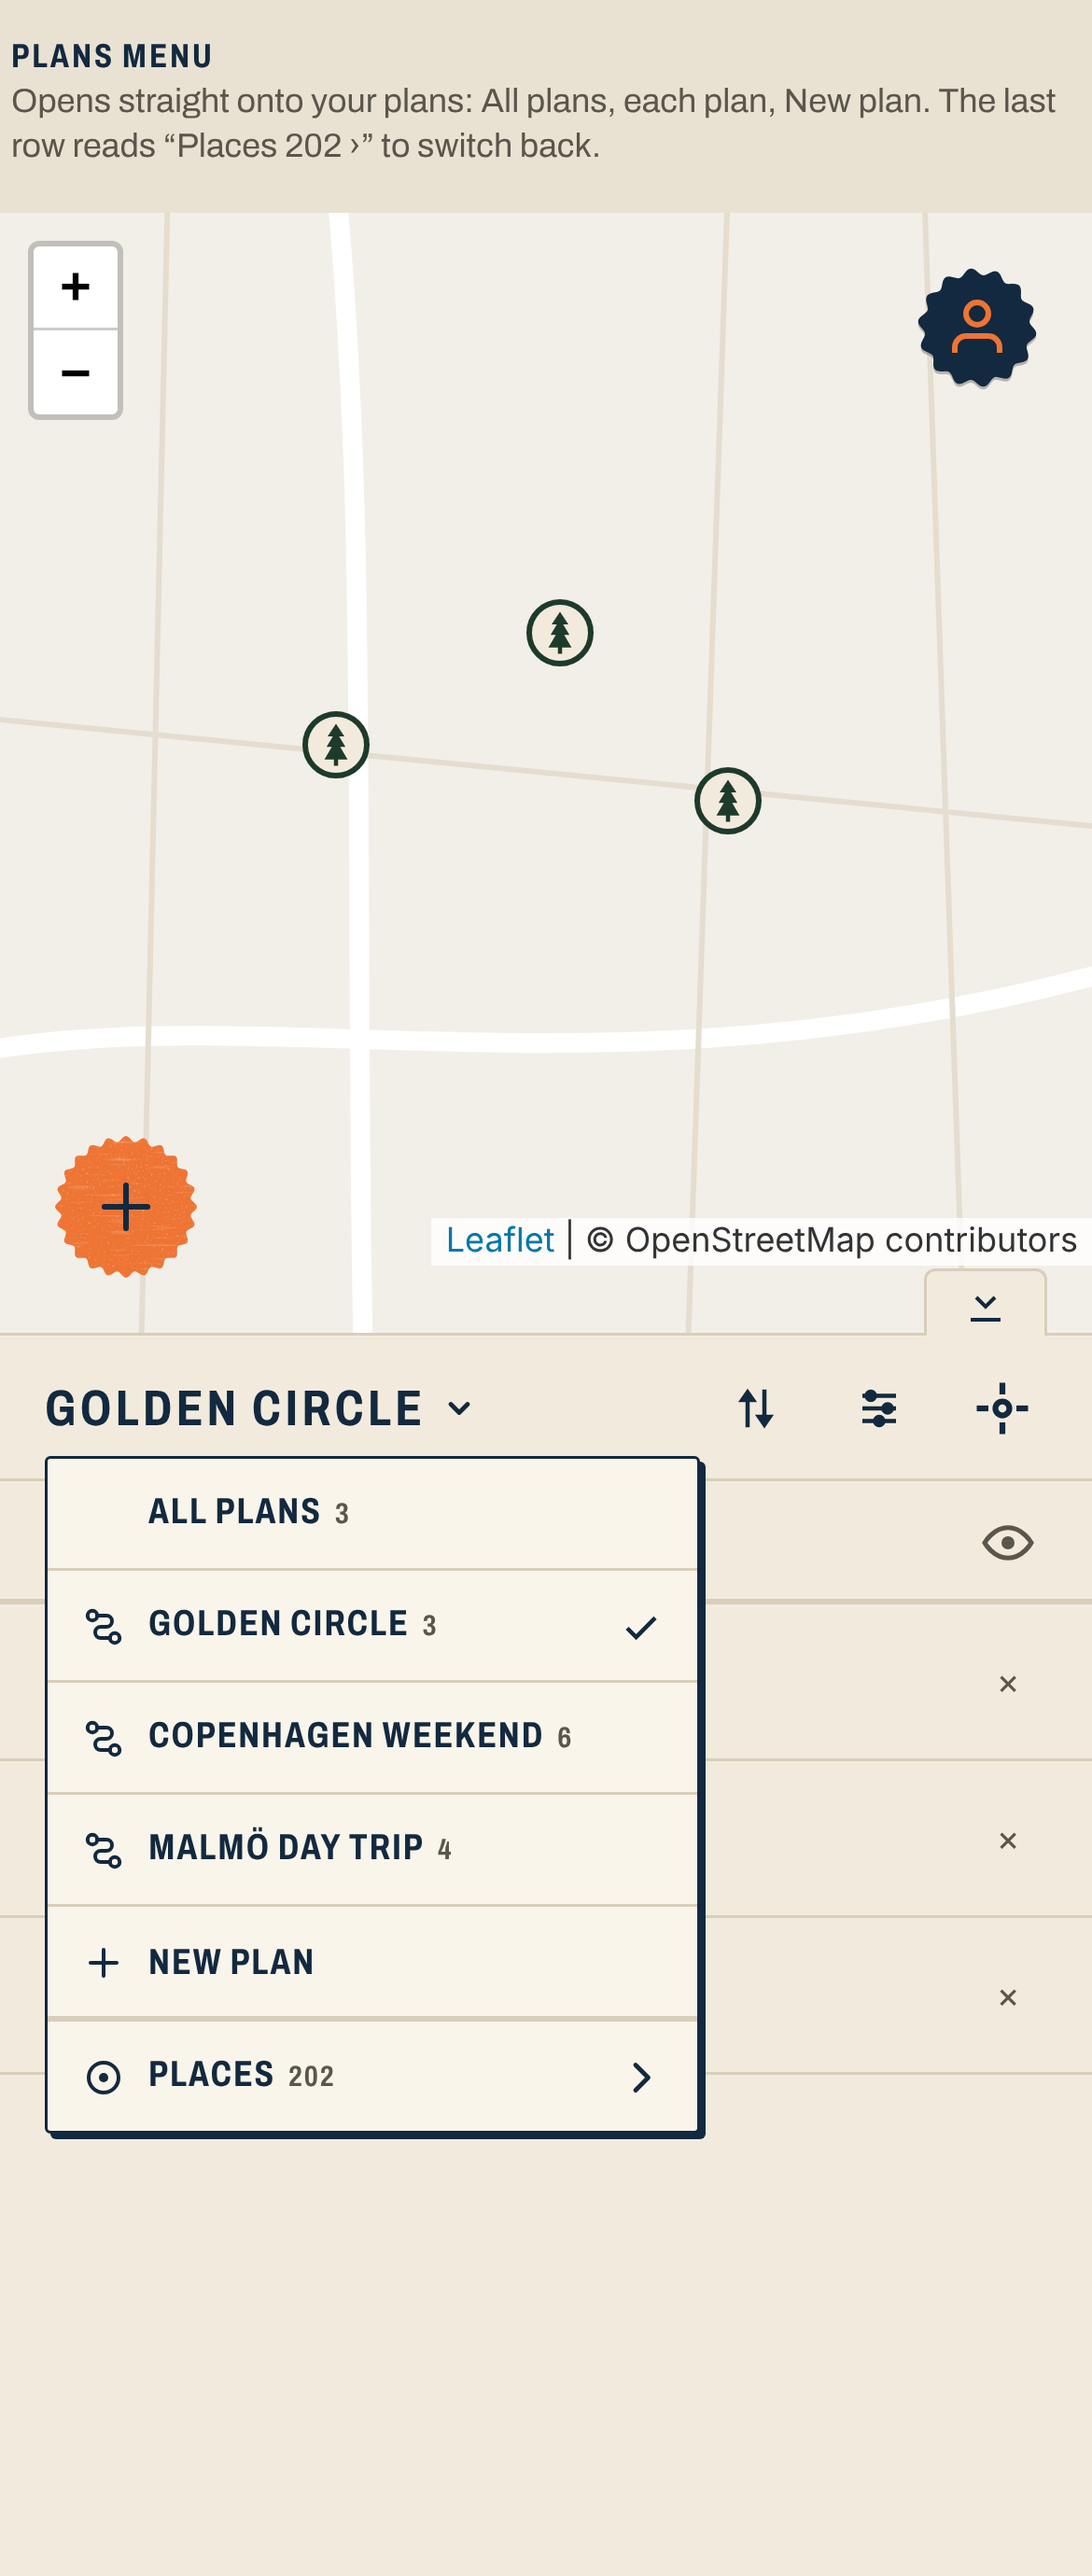
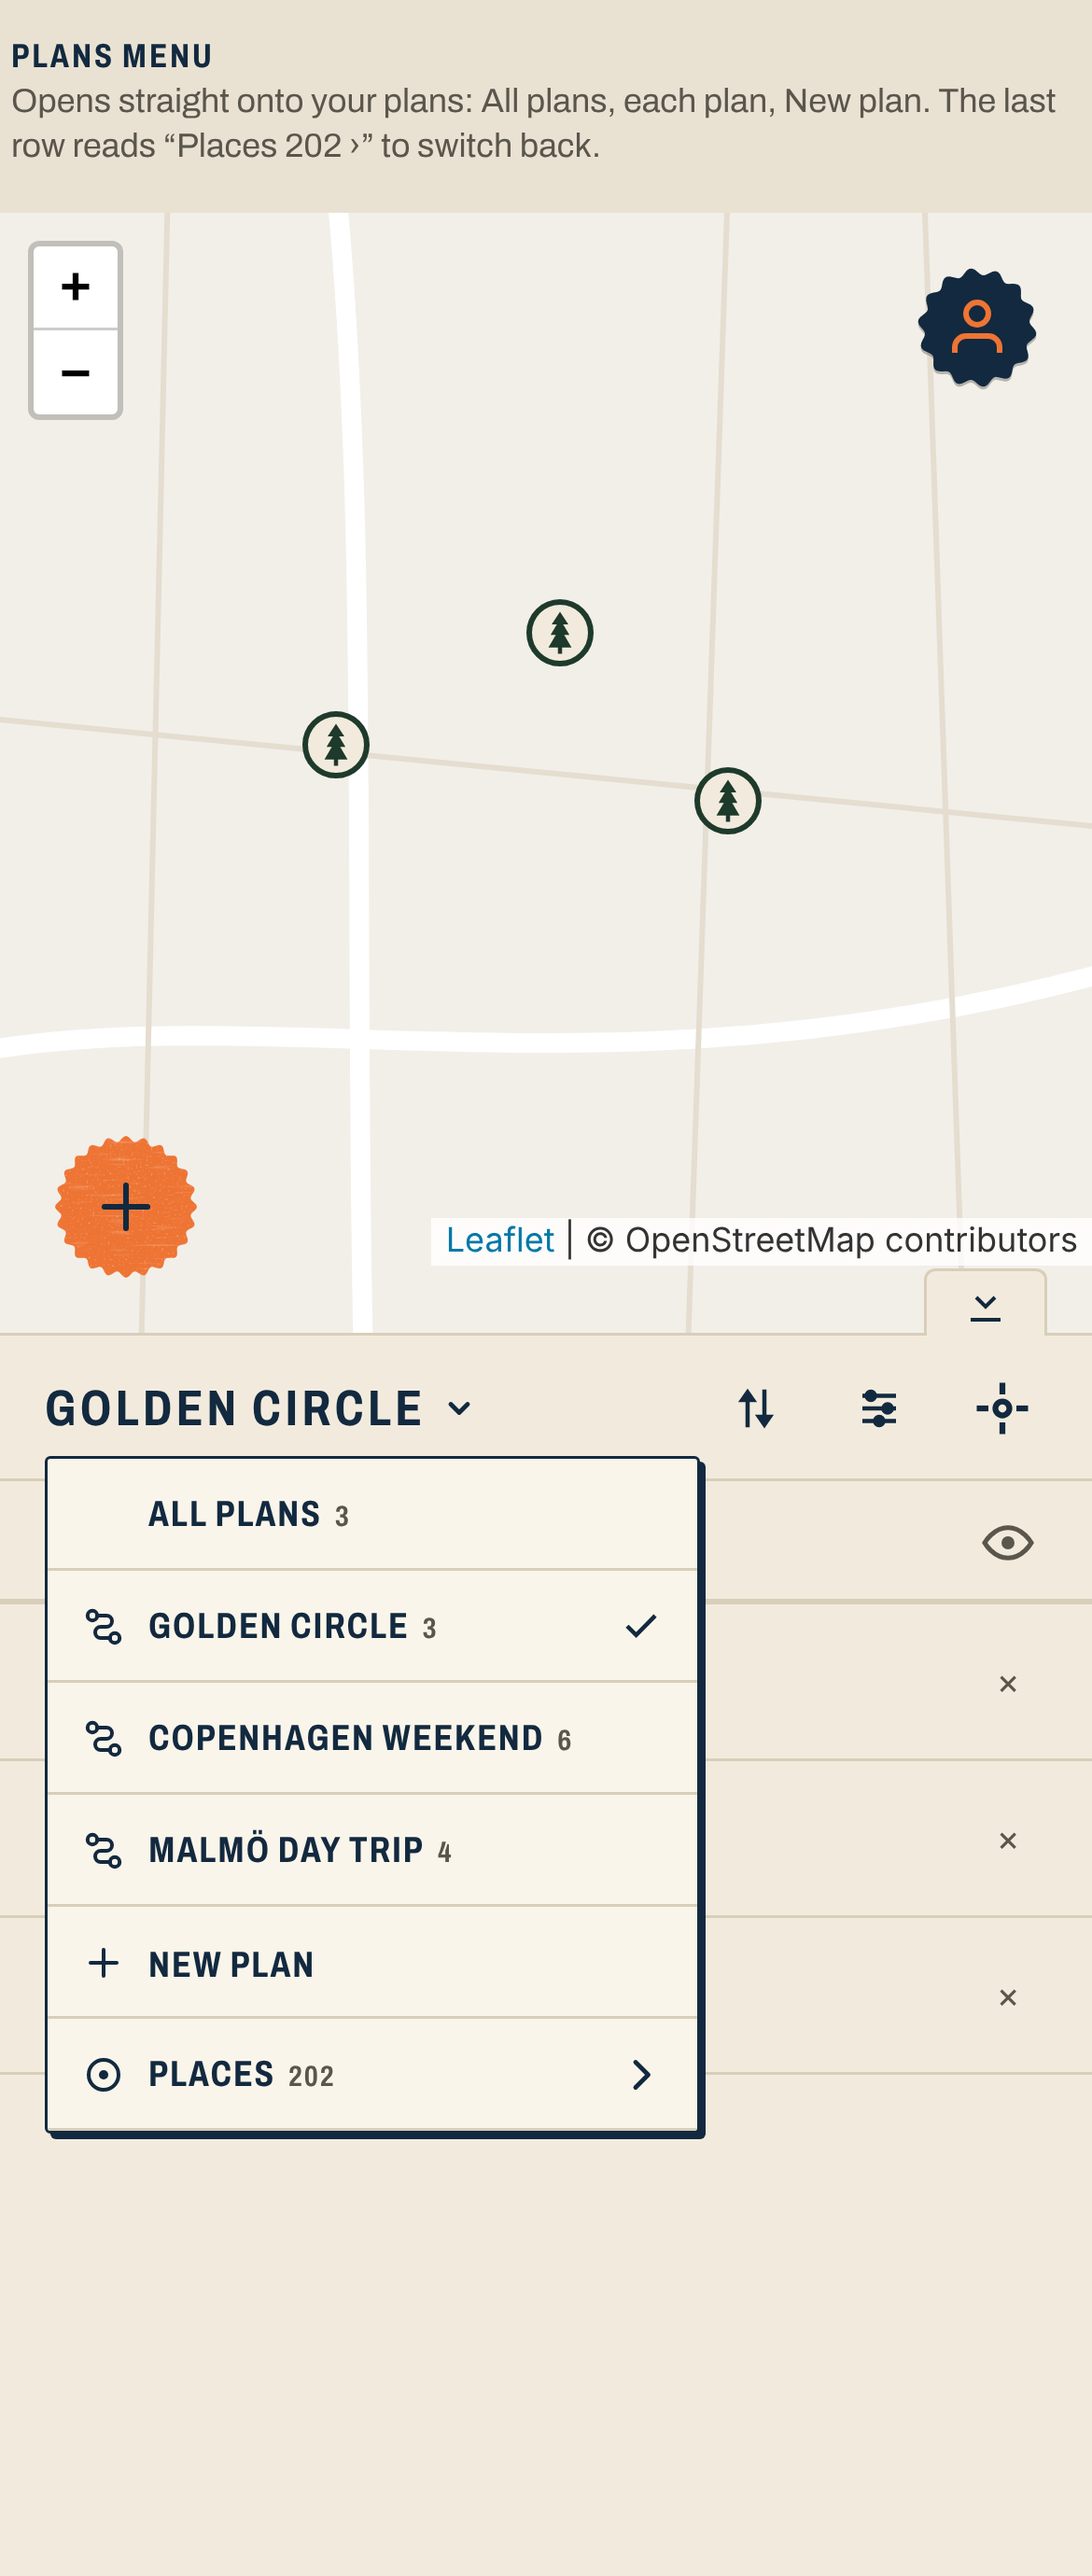
add-tag jam: notes sync
Claude-Session: https://claude.ai/code/session_01KJurQQYHfCNMLJBzKaXeDY

diff --git a/design/add-tag-jam/history.md b/design/add-tag-jam/history.md
@@ -23,3 +23,4 @@ One entry per moment the owner saw work or decided. Each entry is at most 4 line
 - **10-17 · Places and Plans:** "No i do not want it always visible" → Turn 9, then "absolutely not solved I need to be able to specify inside of either" → Turn 10, kind then item. "does not need to be in the list header" and "the toggle isn't right yet" → T1–T3; "I'm not starting with that decision every time I open the dropdown" → the menu opens on the items, and the other kind is reached by T3, I1 matchbook striker, I2 hotel label or I3 turned corner. Open. `PlacesPlansKinds`, `stills/places-plans/`
 - **10-17 · Places and Plans, the switch:** "T2 language with t1 ui… what’s it look like in plans though" → "Yes I": the hotel label’s look on the striker strip, drawn for Places ("Plans 3") and Plans ("Places 202"). T3 and I1–I3 archived. `PlacesPlansKinds`, `stills/places-plans/2-*`, `3-*`
 - **10-17 · Quiet bottom row, plain names:** "I meant t3 UI I1 content. This way of referring to things is confusing" → the other kind is a plain last row ("Plans 3 ›" / "Places 202 ›"); the navy strip is archived; options are named in words, not codes. `stills/places-plans/2-places-menu-quiet-row.png`, `3-plans-menu-quiet-row.png`
+- **10-17 · Places and Plans decided:** "This is great but icon alignment isn’t centered" → approved; menu text lowered 1px and the check raised 0.75px so every icon sits on its row’s cap-height centre (measured within 0.4px), one icon column. `stills/places-plans/2-places-menu-quiet-row.png`, `3-plans-menu-quiet-row.png`

diff --git a/design/add-tag-jam/notes/visual.md b/design/add-tag-jam/notes/visual.md
@@ -186,3 +186,4 @@
 - v33: Places/Plans menu opens on items (no caption, no top switch). Next to T3: I1 matchbook striker (navy bottom strip "Plans 3 ›", from matchbooks-collage), I2 hotel label (round navy "Plans 3" label on the top-right corner, from hotel-savoy-dolomiti-label), I3 turned corner (dog-eared bottom-right, Plans on the back, from vintage-camping-brochures-collage). T1/T2 archived as PlacesPlansToggleT1T2. history.md + snapshots/1-start-main-90c396e.png started.
 - v34: I2 language on I1 UI: navy bottom strip with paper keyline (pill, inset 4/5px), route/ring glyph, caps label, orange count; Places menu "Plans 3", Plans menu (All plans, plans, New plan) "Places 202"; title "Golden Circle ⌄". T3/I1–I3 archived as PlacesPlansIdeas.
 - v35: quiet bottom row (plain menu row, hair rule above, route/ring glyph, caps label + tally, › chevron) on both menus; navy strip archived as PlacesPlansStrip; all Now board titles, Decided stickies and captions renamed without option codes.
+- v36: menu rows: label top:1px, CHECK16 path raised 0.75px, quiet row gets the rows’ own bottom hairline (no extra top rule); measured icon/text/check centres within 0.4px on every row. Places and Plans decided; sticky empty.

diff --git a/design/add-tag-jam/owner.md b/design/add-tag-jam/owner.md
@@ -118,3 +118,4 @@ Orchestrator answer (thread 5baf422c): Photon (komoot, OSM, autocomplete + lat/l
 Read as: T3's UI (a quiet last row in the menu, styled like the other rows) carrying I1's content ("Plans 3 ›"). Process: stop labelling options with codes (T1/I2/…); use short descriptive names.
 > (chat, on the quiet bottom row, both sides) This is great but icon alignment isn’t centered
 Read as: Places/Plans menu with the quiet bottom row approved; fix icon centring.
+> (on the quiet-bottom-row menus) This is great but icon alignment isn’t centered
